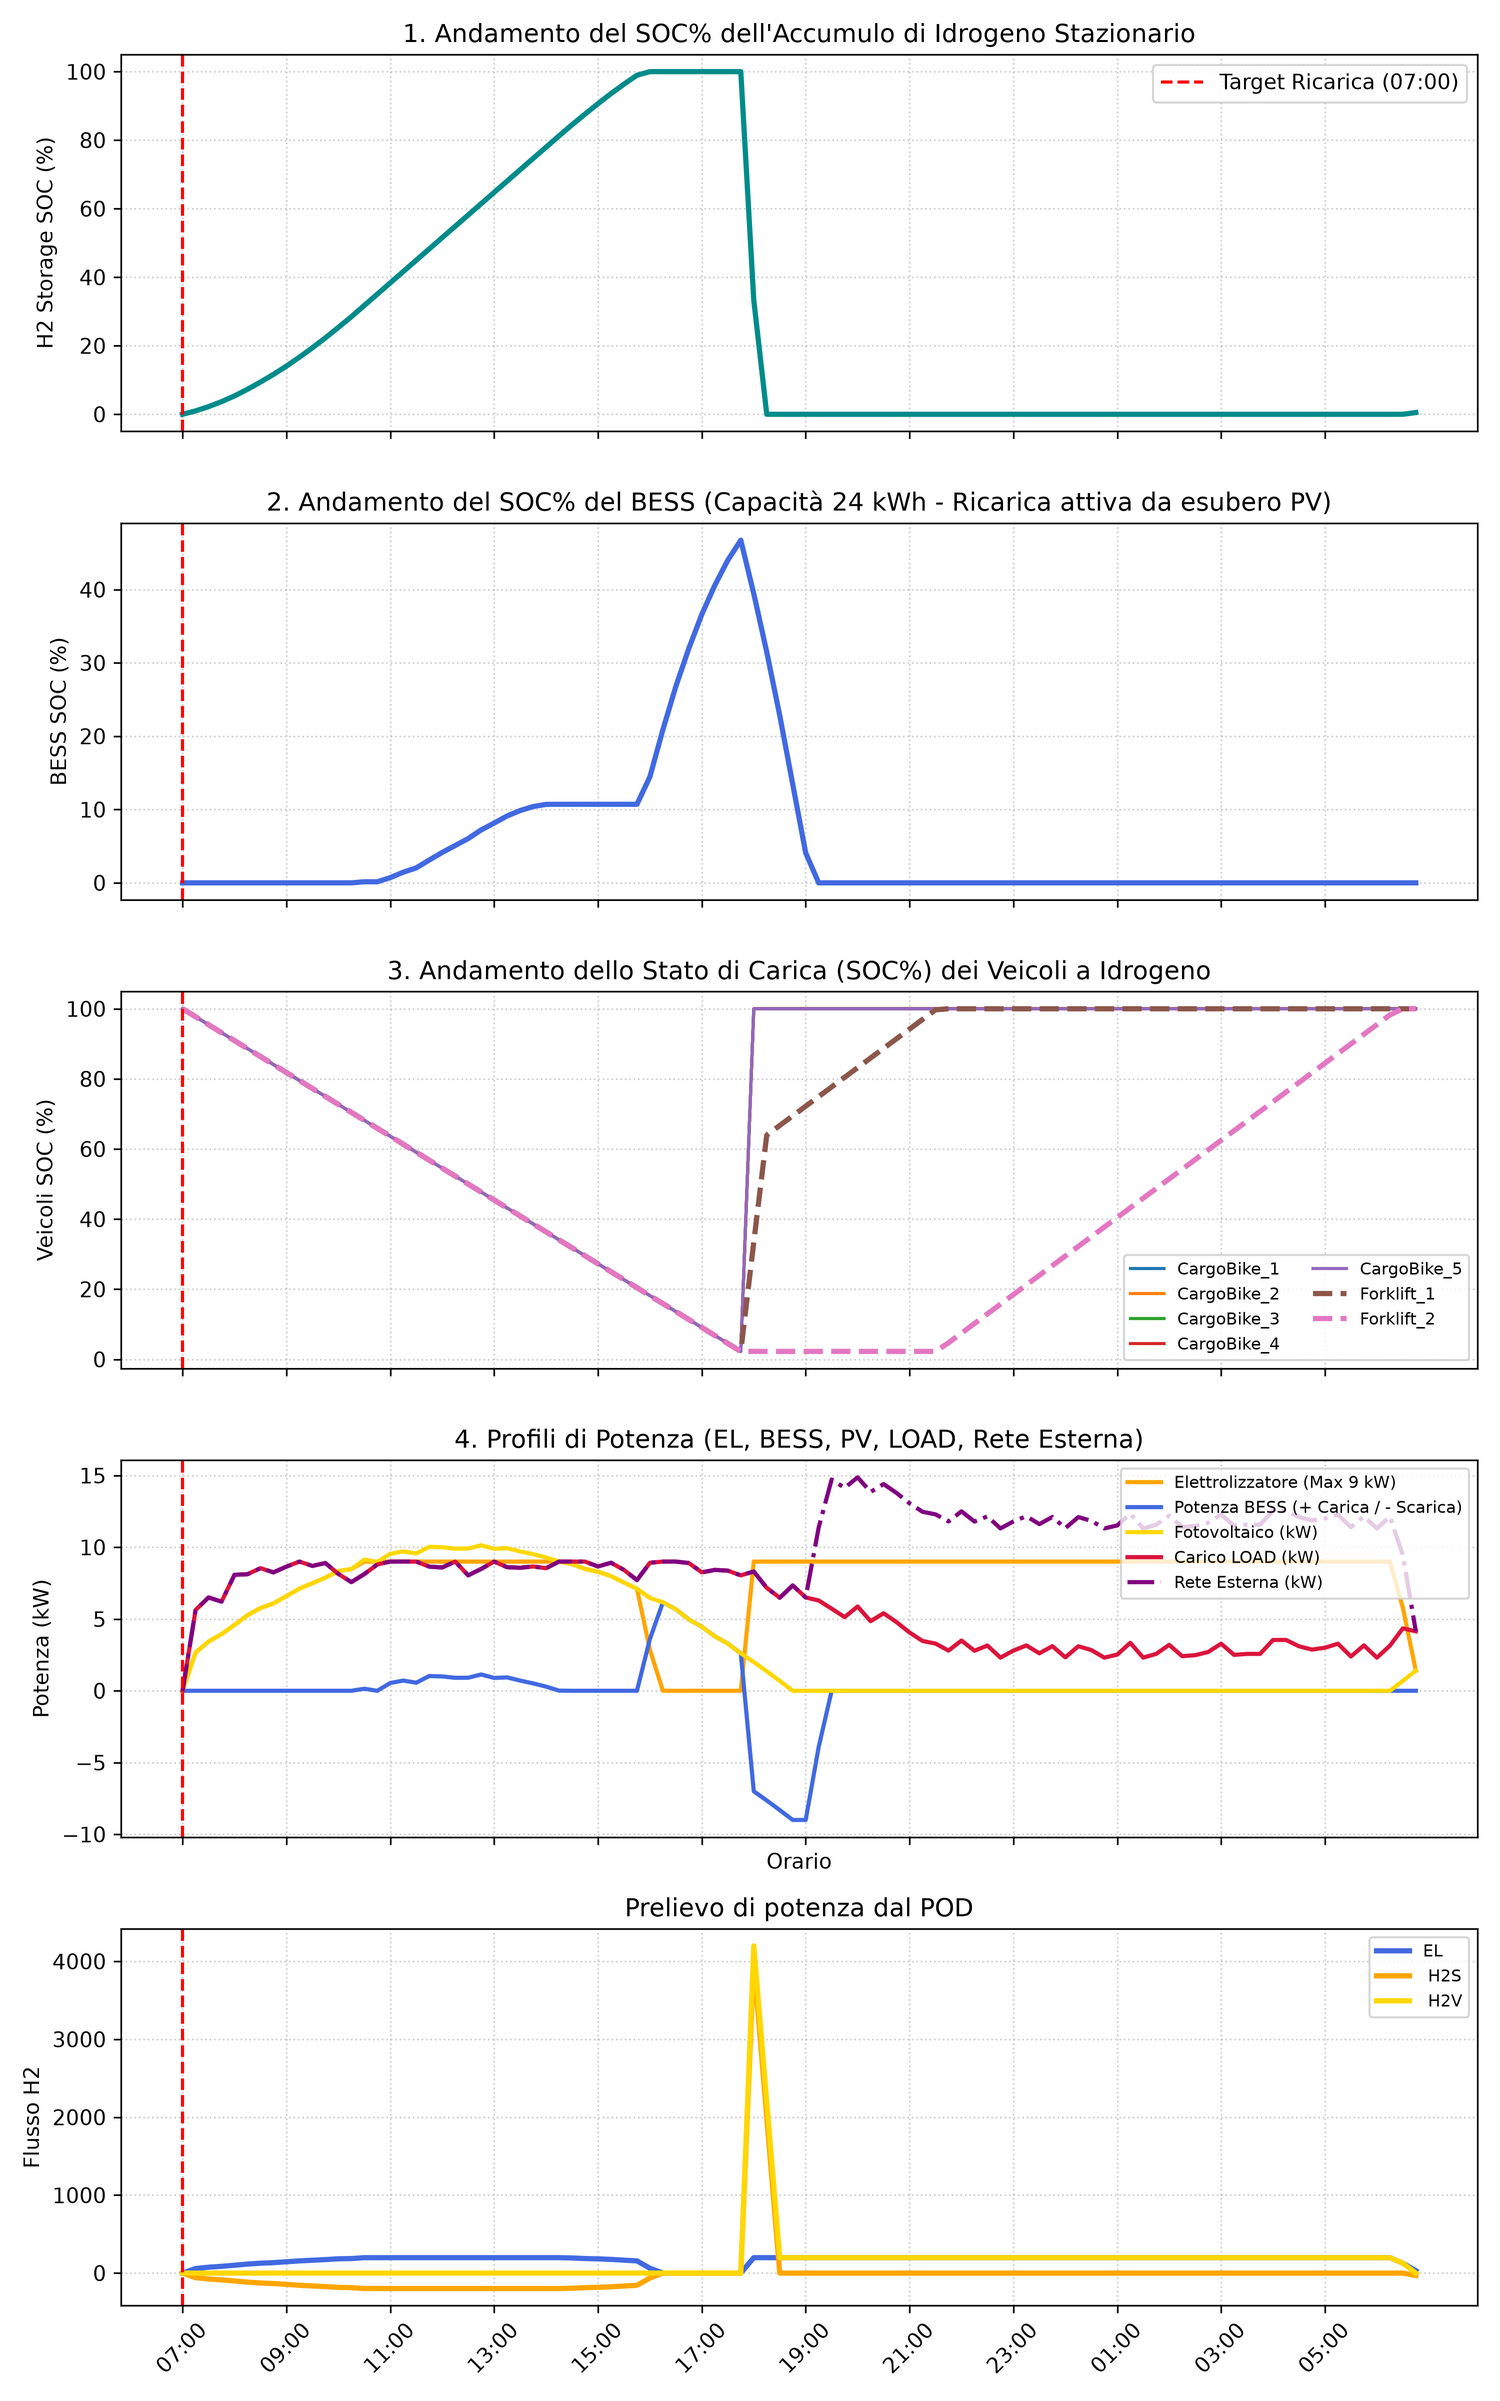
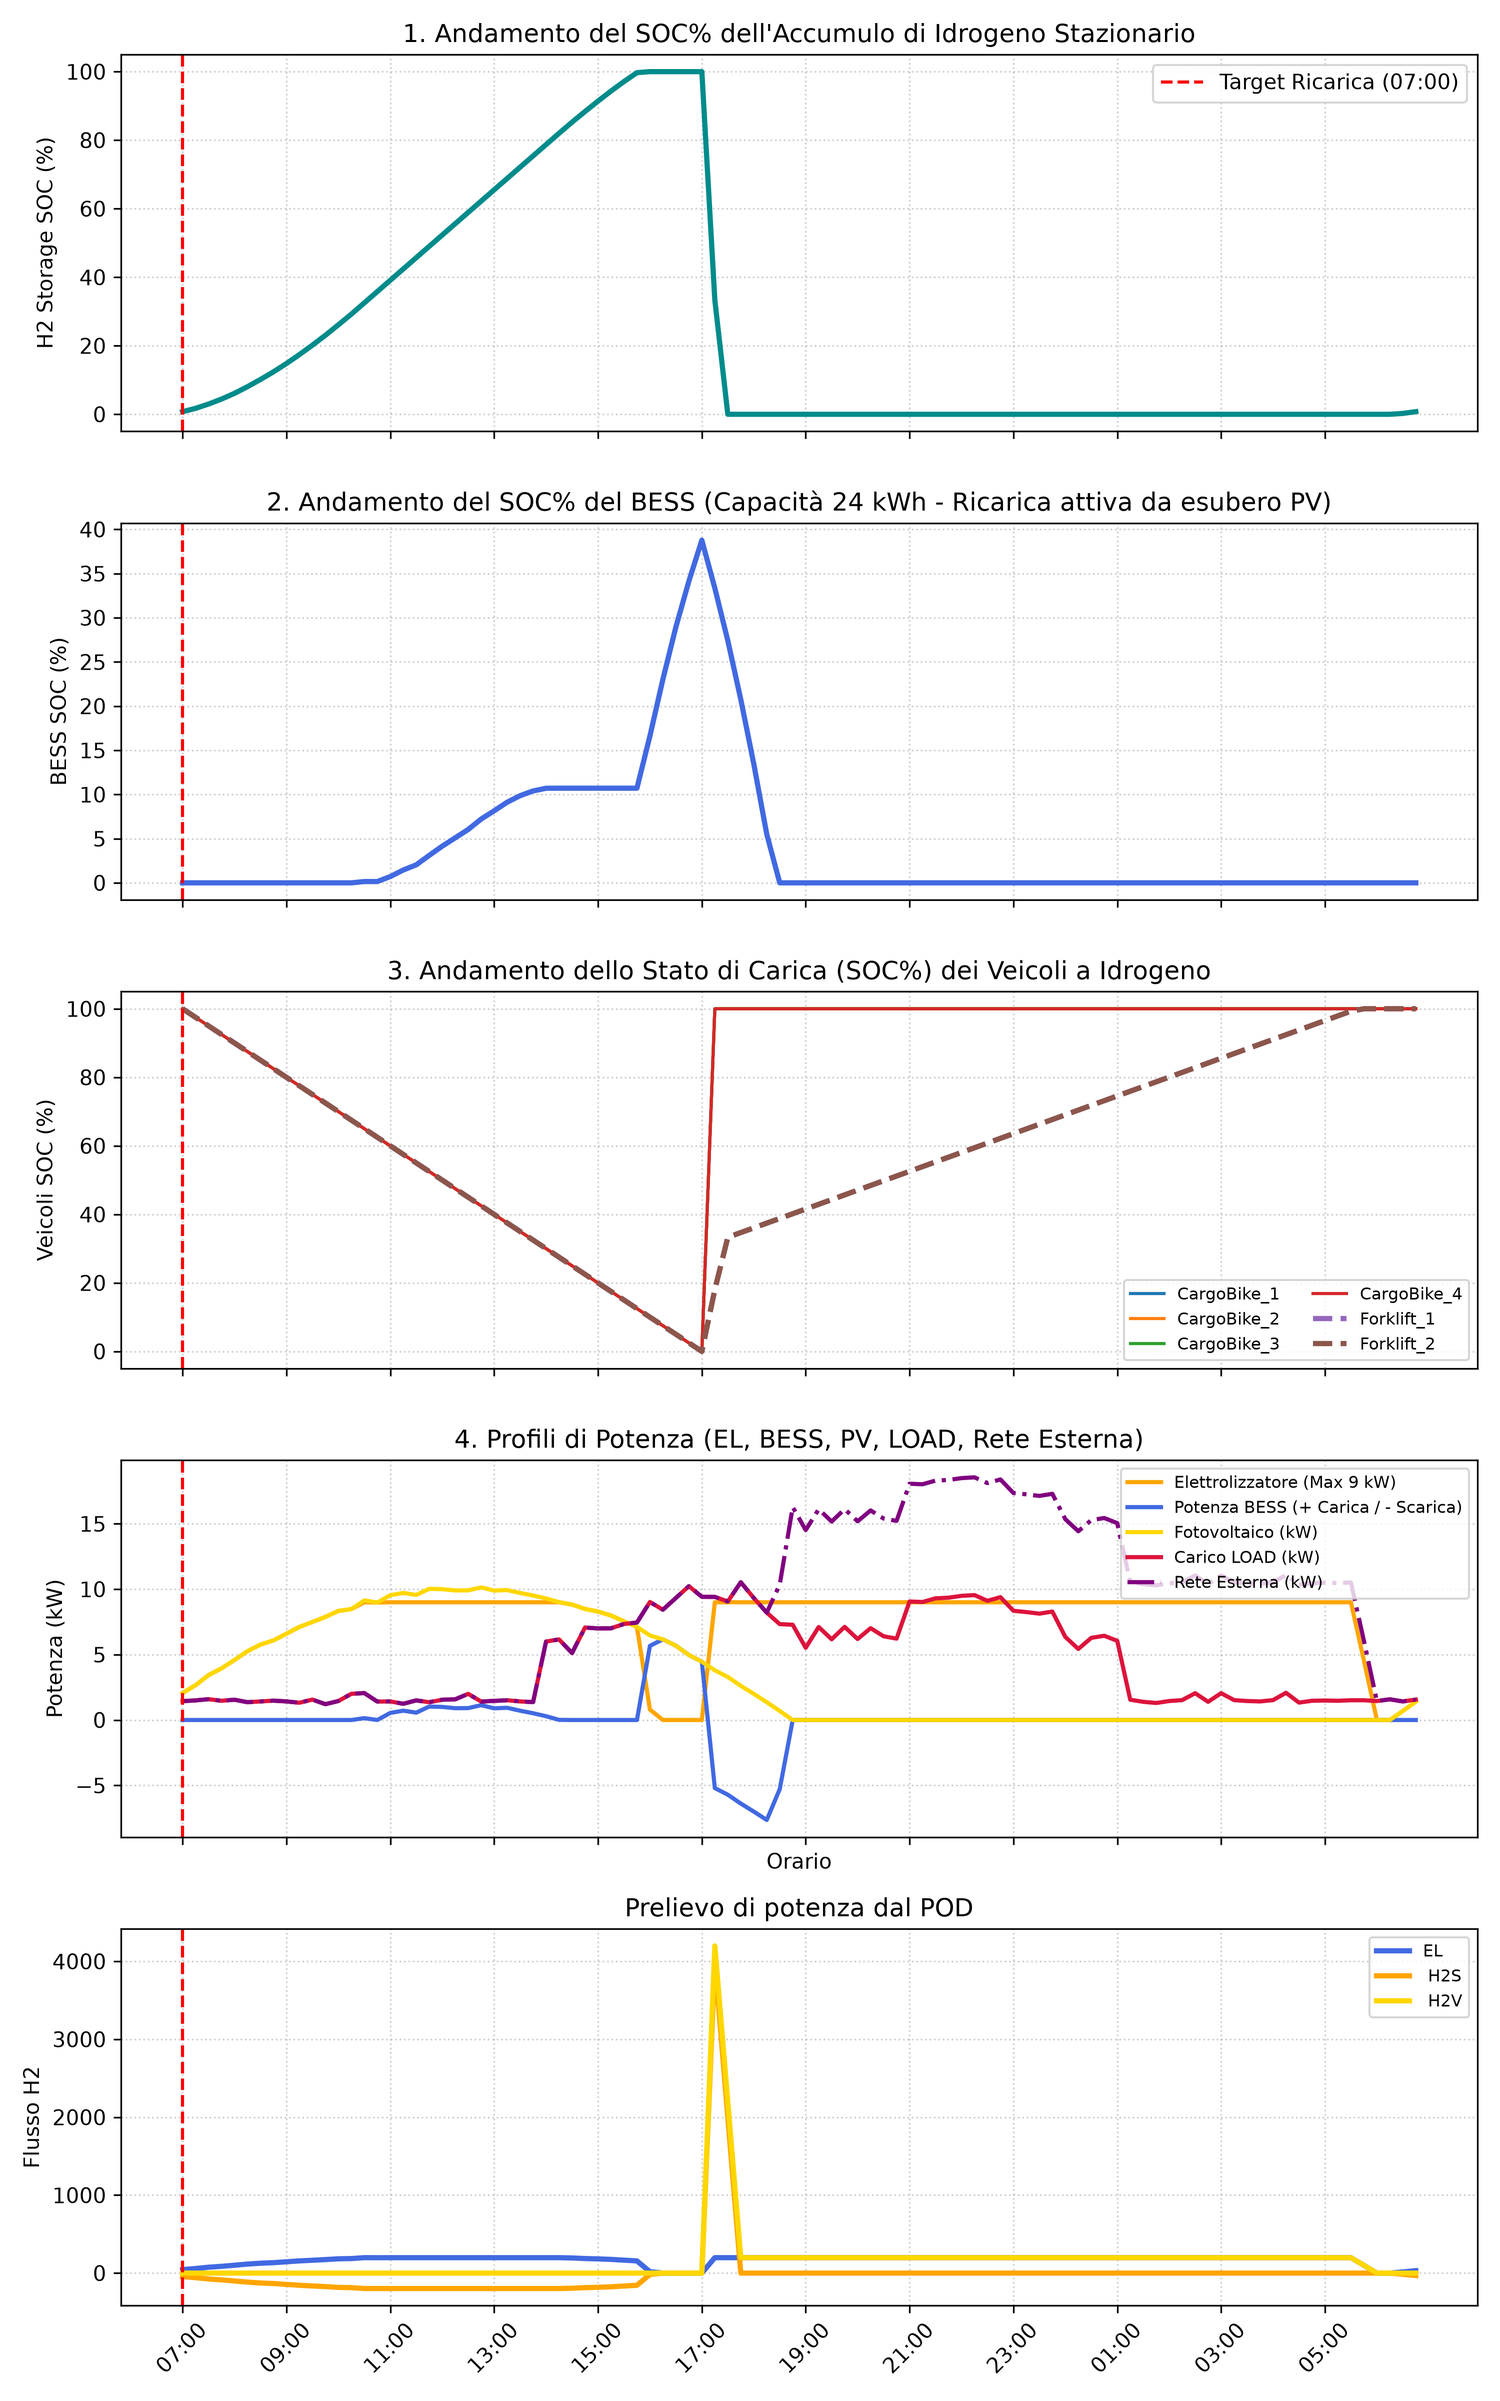
Gestione delle ricariche multiple, aggiunta possibilità di orizzonte temporale maggiore di 1 giorno

diff --git a/main.py b/main.py
@@ -1,7 +1,7 @@
 import datetime
 
 import pandas as pd
-import numpy as np
+# import numpy as np
 import matplotlib.pyplot as plt
 
 # ==========================================
@@ -30,19 +30,22 @@ initial_h2_mass = h2_store_cap * 0.0  # g (100% - Target fine/inizio giornata)
 h2_store_mass = initial_h2_mass
 h2_store_flow = 0.0     # FLusso istantaneo
 
-el_p_max = 9.0  # Potenza massima nominale EL = 9 kW
+el_p_max = 9  # Potenza massima nominale EL = 9 kW
 el_eff = 22.0   # g/kWh (22 g/kW)
 h2_flow_EL = 0.0
 h2_flow_av_EL = el_p_max * el_eff  # Caso in cui non ho limiti sull'elettrolizzatore
 el_en = 0.0
 
-# Flotta veicoli inizialmente completamente scarichi (SOC = 0.0)
+# Flotta veicoli inizialmente completamente carichi (SOC = 1.0)
+
+h2v_chg_max_n = 7
+
 vehicles = []
-for i in range(5):
+for i in range(4):
     vehicles.append({
         'id': f'CargoBike_{i + 1}',
         'cap': 100,  # g
-        'rate': 500,  #  g/h = 8.33 g/min
+        'rate': 500,  # g/h = 8.33 g/min
         'soc': 1.0,
         'flow': 0.0,
         'start_time': None,
@@ -53,13 +56,15 @@ for i in range(2):
     vehicles.append({
         'id': f'Forklift_{i + 1}',
         'cap': 1800.0,  # g
-        'rate': 3000.0,  # g/h = 50.0 g/min
+        'rate': 3000.0,  # g/h = 50.0 g/m4.2n
         'soc': 1.0,
         'flow': 0.0,
         'start_time': None,
         'end_time': None,
         'charging_minutes': 0.0
     })
+h2v_prod = 0.0
+
 
 results = []
 
@@ -88,14 +93,14 @@ step_init = {
 for v in vehicles:
     step_init[f"{v['id']}_SOC_kg"] = v['soc']
     step_init[f"{v['id']}_SOC_Percent"] = (v['soc'] / v['cap']) * 100.0
-    v['soc_history'] = [100]
+    v['soc_history'] = []
 
-results.append(step_init)
+# results.append(step_init)
 
 # ==========================================
 # 2. CICLO DI SIMULAZIONE TEMPORALE
 # ==========================================
-for idx, row in df.iloc[1:].iterrows():
+for idx, row in df.iloc[0:].iterrows():
     load = row['P LOAD  [kW]']
     irr = row['Irr PV [W(m2)']
     temp = row['T PV [°C]']
@@ -103,11 +108,16 @@ for idx, row in df.iloc[1:].iterrows():
 
     if hasattr(ora_val, 'hour') and hasattr(ora_val, 'minute'):
         current_total_minutes = ora_val.hour * 60 + ora_val.minute
-        ora_str = f"{ora_val.hour:02d}:{ora_val.minute:02d}"
+        try:
+            ora_str = f"G{ora_val.day}:{ora_val.hour:02d}:{ora_val.minute:02d}"
+        except AttributeError:
+            ora_str = f"{ora_val.hour:02d}:{ora_val.minute:02d}"
     else:
         h_parts = list(map(int, str(ora_val).split(':')[:2]))
         current_total_minutes = h_parts[0] * 60 + h_parts[1]
         ora_str = str(ora_val)[:5]
+
+    curr_time = ora_val.hour + ora_val.minute / 60
 
     # Modellazione PV con correzione termica
     t_cell = temp + irr * 0.03
@@ -133,20 +143,26 @@ for idx, row in df.iloc[1:].iterrows():
 
     h2_flow_av_store = min(h2_store_mass / dt, (h2_store_flow_max - h2_store_flow))
 
+    h2v_chg_curr_n = 0
 
-    # IMPORTANTE: Codice aggiunto da AR
+    h2v_to_chg = 0
+    for v in vehicles:
+        if v['soc'] < 1:
+            h2v_to_chg += 1
+    h2v_max_session = min(h2v_to_chg, h2v_chg_max_n)
+
     for v in vehicles:
         h2_flow_demand = 0.0     # Richiesta totale di H2 da parte dei veicoli
 
         # TODO: l'orario deve essere generalizzato
         # Politica di ricarica
-        if ora_val <= datetime.time(7, 0) or ora_val >= datetime.time(18, 0):
-            if v['soc'] < 1:
+        if curr_time <= 7 or curr_time > 17:
+            if v['soc'] < 1 and h2v_chg_curr_n < h2v_chg_max_n:
                 # La portata massima dipende da quanto H2 posso inserire in ogni veicolo, dalla portata massima del veicolo
                 # e da quanto può erogare sia l'H2S che l'EL
                 h2_flow_v_max = min((1 - v['soc']) * v['cap'] / dt,
                                     v['rate'],
-                                    h2_flow_av_store + h2_flow_av_EL)
+                                    (h2_flow_av_store + h2_flow_av_EL) / h2v_max_session)
                 # print((1 - v['soc']) * v['cap'] / dt, v['rate'], (h2_store_flow_max - h2_store_flow))
                 # print(f'{v['id']} flow max: {h2_flow_v_max:.2f} kg/h')
 
@@ -163,10 +179,14 @@ for idx, row in df.iloc[1:].iterrows():
                 h2_flow_av_store -= h2_store_flow_v     # Per il prossimo calcolo, la portata massima dell'EL si riduce
                 h2_flow_av_EL -= max(0, v['flow'] - h2_store_flow_v)    # Per il prossimo calcolo, la portata massima dell'H2S si riduce
                 h2_flow_H2V += v['flow']
+
+                if v['flow'] > 0:
+                    h2v_chg_curr_n += 1
+                    h2v_max_session -= 1
                 # if h2_store_mass > m_H2_v_max:
         else: # Politica di scarica
             if v['soc'] > 0:
-                v['flow'] = - min(v['cap'] / 11, v['soc'] * v['cap'] / dt)
+                v['flow'] = - min(v['cap'] / 10, v['soc'] * v['cap'] / dt)
                 v['soc'] = v['soc'] + v['flow'] * dt / v['cap']
 
         v['soc_history'].append(v['soc'] * 100.0)
@@ -229,6 +249,7 @@ for idx, row in df.iloc[1:].iterrows():
     bess_en += bess_power * dt
     load_en += load * dt
     pv_en += pv_gen * dt
+    h2v_prod += h2_flow_H2V * dt
 
     # print(f'Ora: {ora_str}\tPV: {pv_gen:.2f} kW\tEL: {el_power:.2f} kW\t PV_res: {pv_res:.2f} kW\t'
     #       f'BESS: {bess_soc * 100:.2f}%\tBESS_P: {bess_power:.2f} kW')
@@ -410,6 +431,7 @@ print(f'Energia Elettrolizzatore: {el_en:.2f} kWh')
 print(f'Energia BESS: {bess_en:.2f} kWh')
 print(f'Energia FotoVoltaica: {pv_en:.2f} kWh')
 print(f'Energia Carichi: {load_en:.2f} kWh')
+print(f'H2 prodotto: {h2v_prod:.4f} g')
 
 print("==================================================")
 
